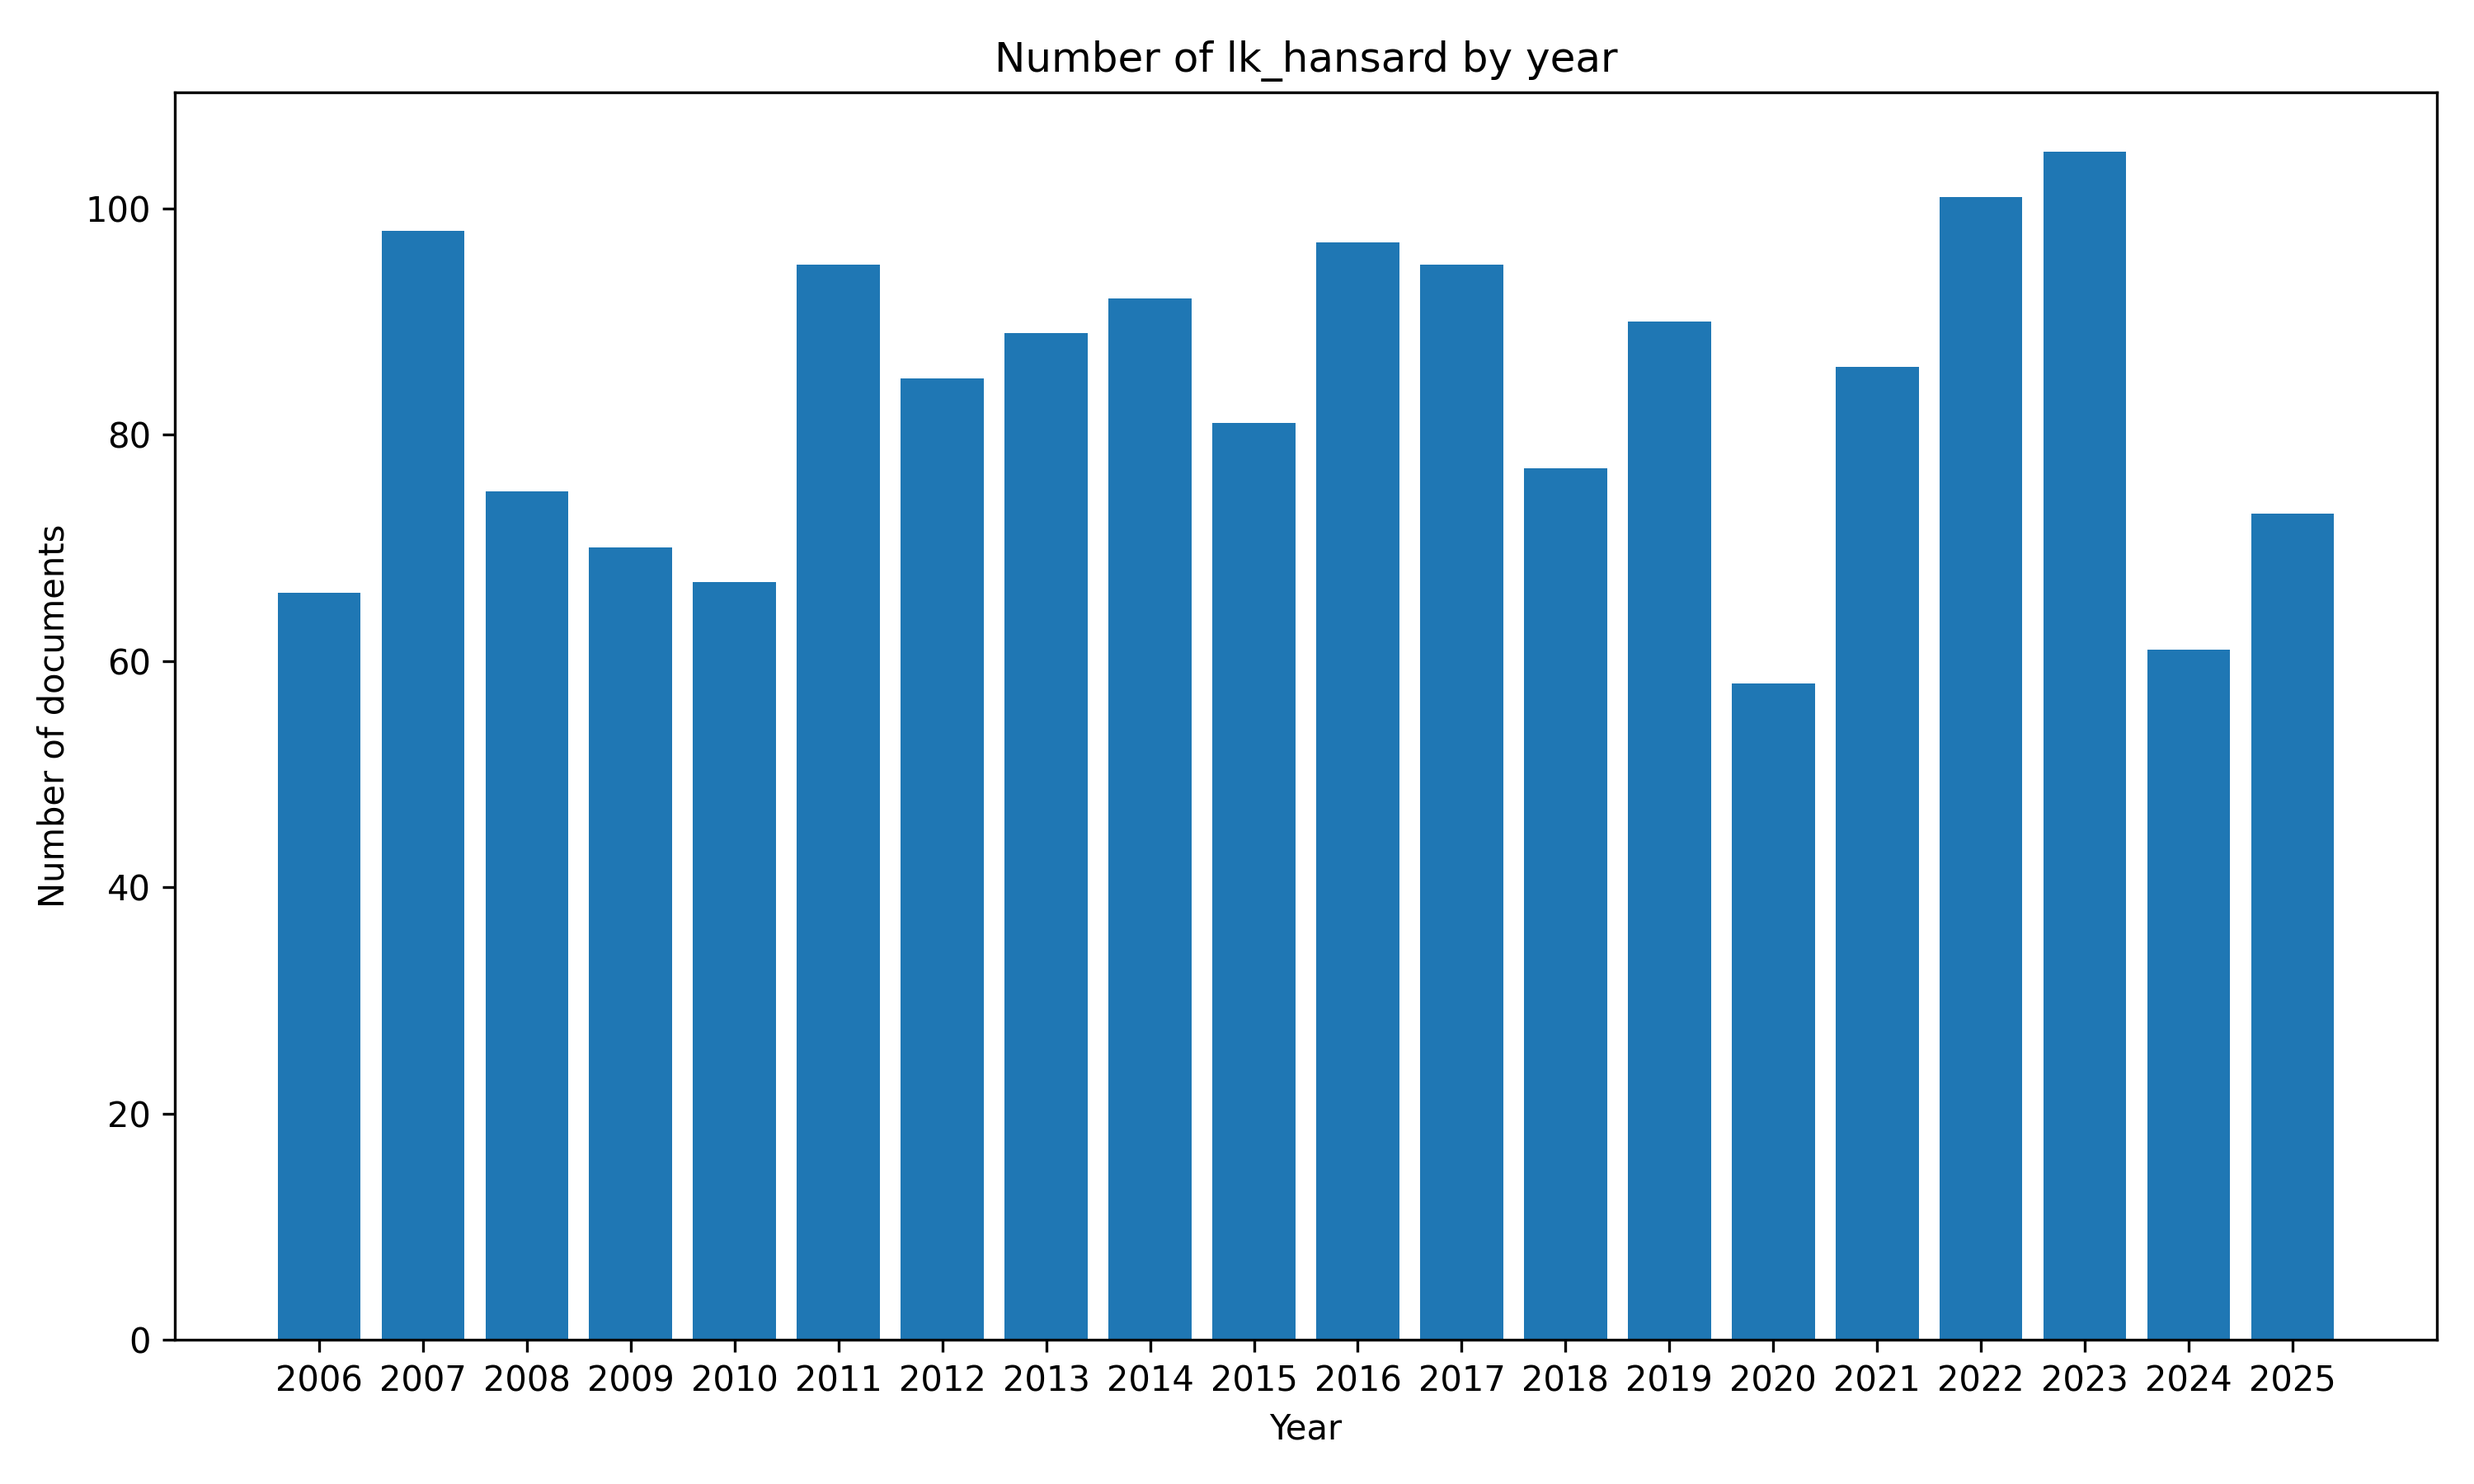
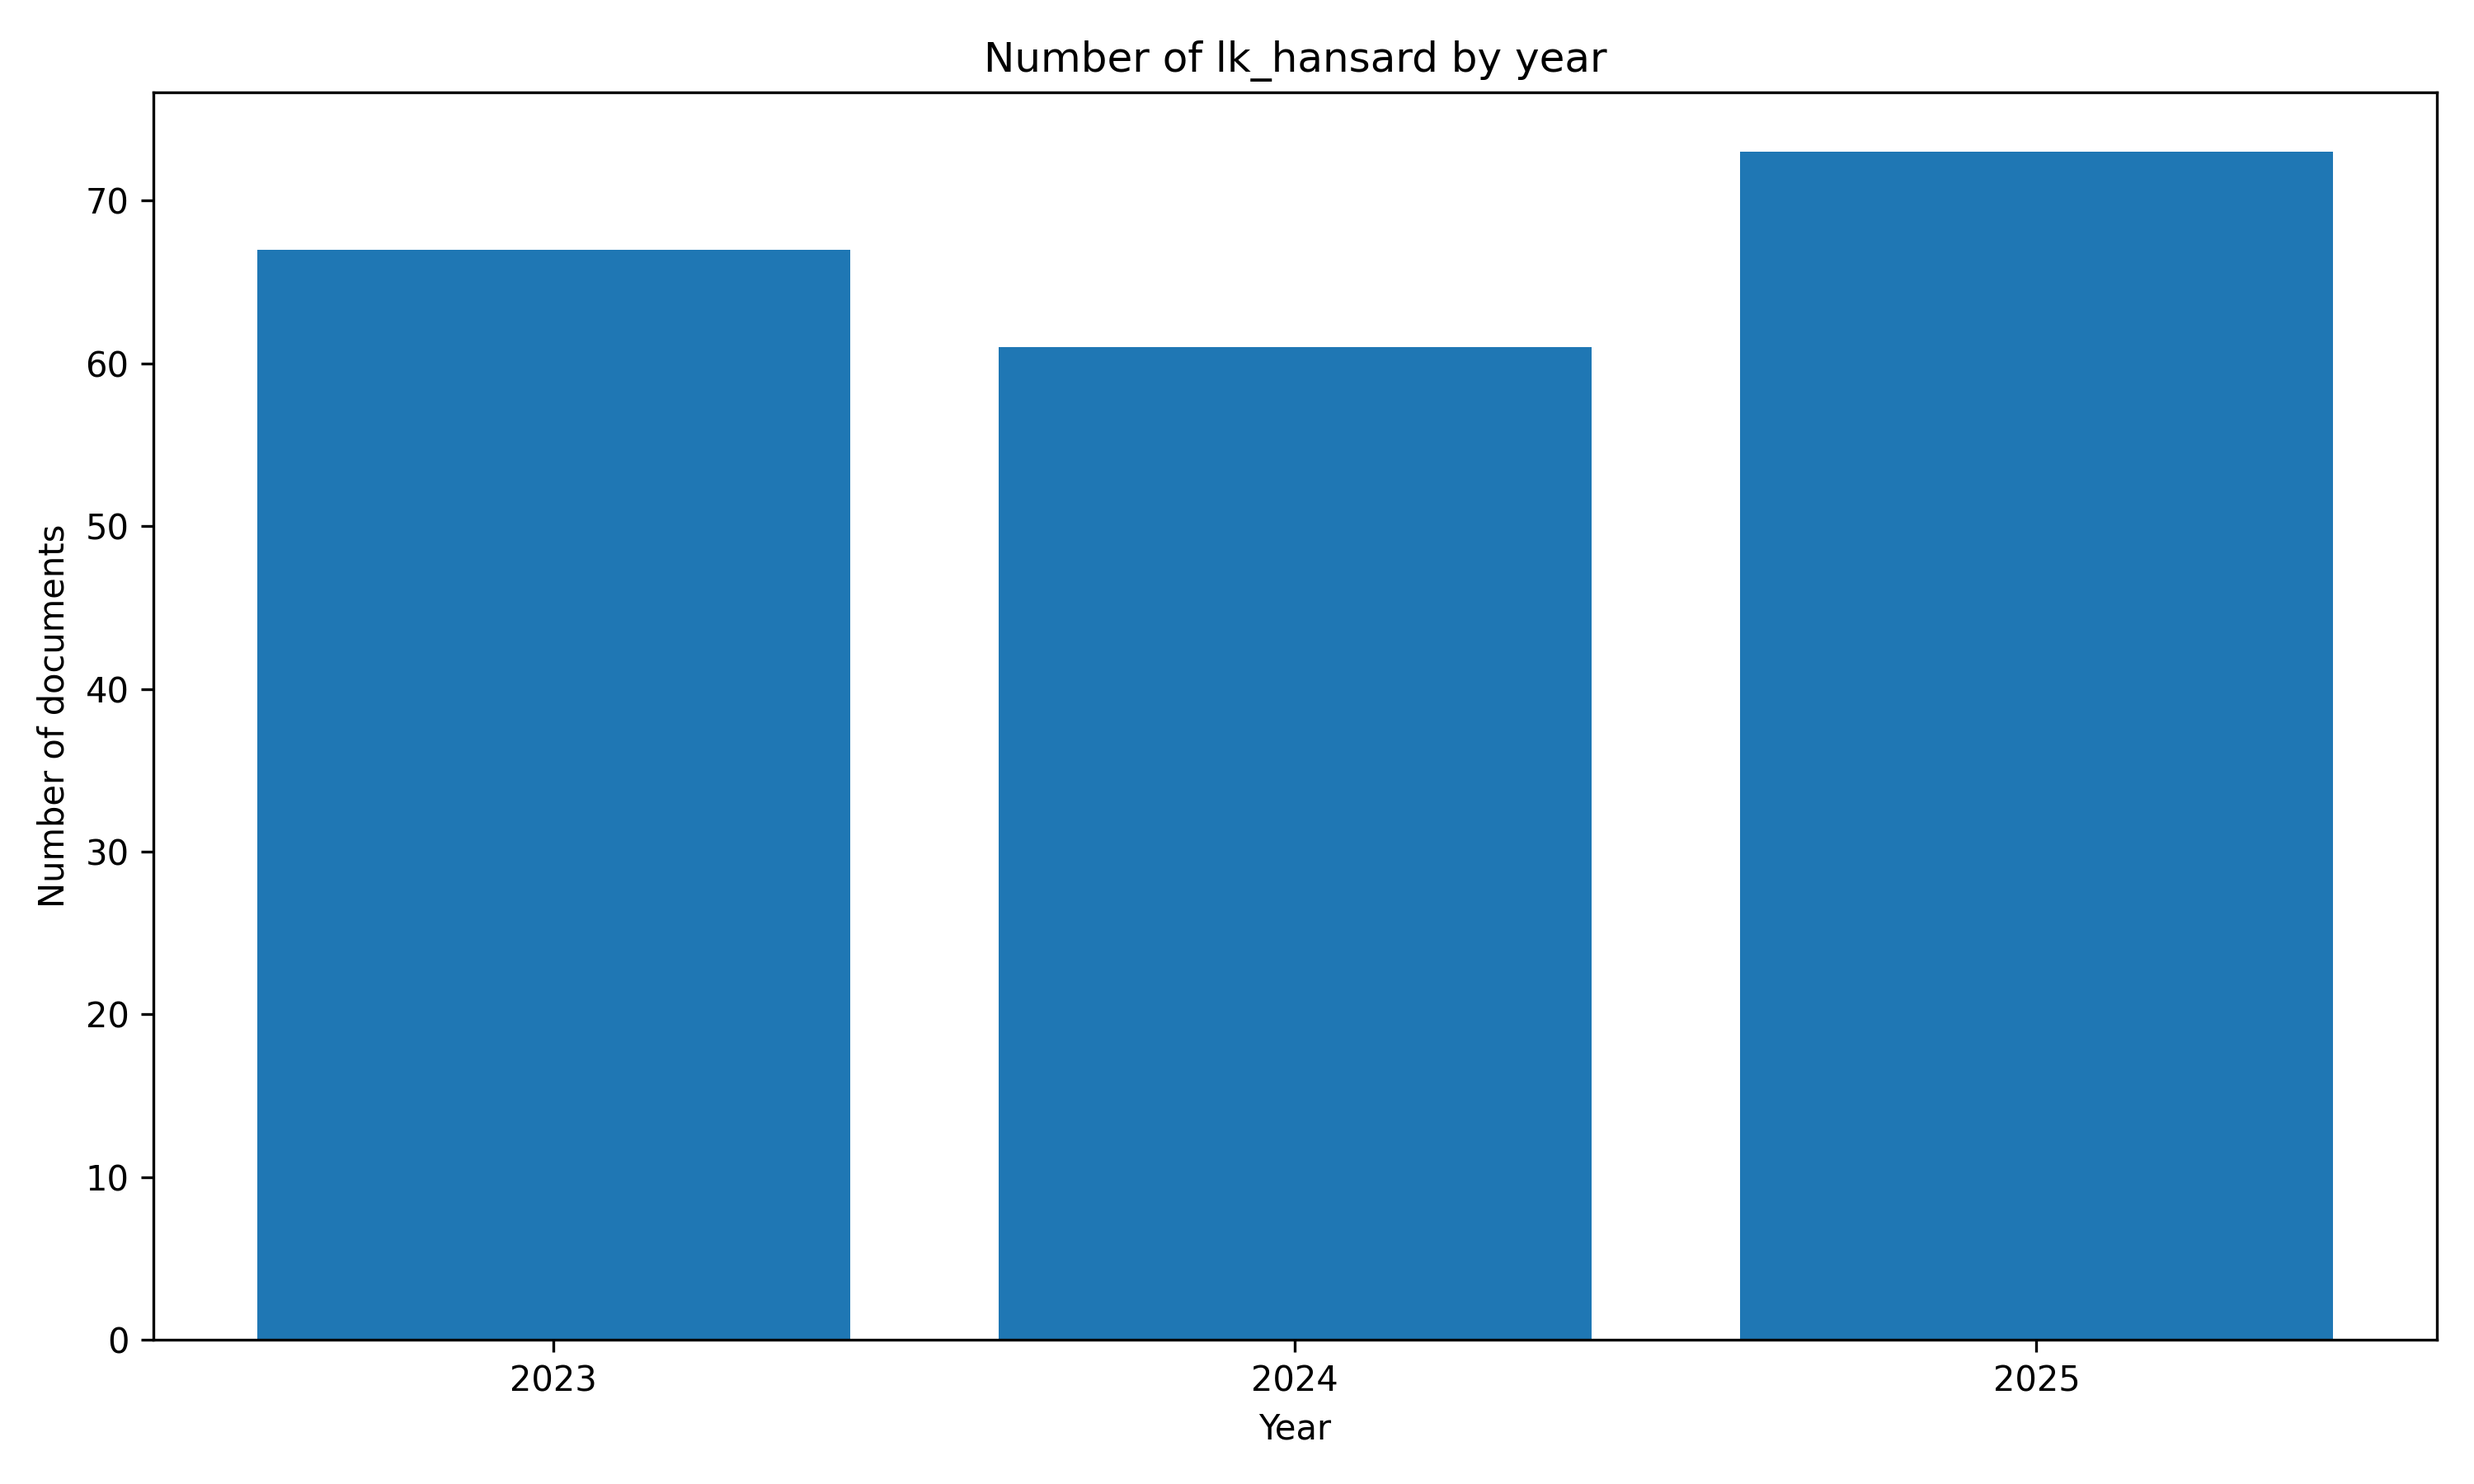
🤖 [pipeline.yml] 2025-09-18-1613

diff --git a/README.md b/README.md
@@ -1,14 +1,14 @@
 # 🇱🇰 #SriLanka Hansard `Dataset`
 
-![LastUpdated](https://img.shields.io/badge/last_updated-2025--09--18_19:47:13-green)
+![LastUpdated](https://img.shields.io/badge/last_updated-2025--09--18_21:43:07-green)
 
 [https://github.com/nuuuwan/lk_hansard](https://github.com/nuuuwan/lk_hansard)
 
-📜 [**1,661** documents](https://github.com/nuuuwan/lk_hansard/tree/data) (**13.0 GB**), from **2006-02-01** to **2025-09-10**, scraped from **[https://www.parliament.lk/en/business-of-parliament/hansards](https://www.parliament.lk/en/business-of-parliament/hansards)**
+- [**201** documents](https://github.com/nuuuwan/lk_hansard/tree/data) (**417.0 MB**), from **2023-06-21** to **2025-09-10**, scraped from **[https://www.parliament.lk/en/business-of-parliament/hansards](https://www.parliament.lk/en/business-of-parliament/hansards)**
 
-💾 In ✅ **JSON**, ✅ **PDF**, ☑ **TXT** (17%) and ☑ **🤗 Hugging Face** (17%)
+- In **JSON**, **PDF** (6%), **TXT** (6%) & **🤗 Hugging Face** (6%)
 
-🗣 In **English**, **සිංහල** and **தமிழ்**
+- In **සිංහල**, **தமிழ்** & **English**
 
 ## 📝 Example Metadata
 
@@ -33,8 +33,8 @@
 
 ![HuggingFace](https://img.shields.io/badge/-HuggingFace-FDEE21?style=for-the-badge&logo=HuggingFace)
 
-- 📄 [nuuuwan/lk-hansard-docs](https://huggingface.co/datasets/nuuuwan/lk-hansard-docs)
-- 📦 [nuuuwan/lk-hansard-chunks](https://huggingface.co/datasets/nuuuwan/lk-hansard-chunks)
+- [nuuuwan/lk-hansard-docs](https://huggingface.co/datasets/nuuuwan/lk-hansard-docs)
+- [nuuuwan/lk-hansard-chunks](https://huggingface.co/datasets/nuuuwan/lk-hansard-chunks)
 
 ## 🆕 20 Latest documents
 
@@ -60,6 +60,8 @@
 - 2025-06-18 | `2025-06-18` | Hansard of June 18, 2025 | [data](https://github.com/nuuuwan/lk_hansard/tree/data/data/lk_hansard/2020s/2025/2025-06-18-2025-06-18)
 
 ---
+
+### [More Datasets about 🇱🇰 #SriLanka](https://github.com/nuuuwan/lk_datasets)
 
 ![Maintainer](https://img.shields.io/badge/maintainer-nuuuwan-red)
 ![MadeWith](https://img.shields.io/badge/made_with-python-blue)
